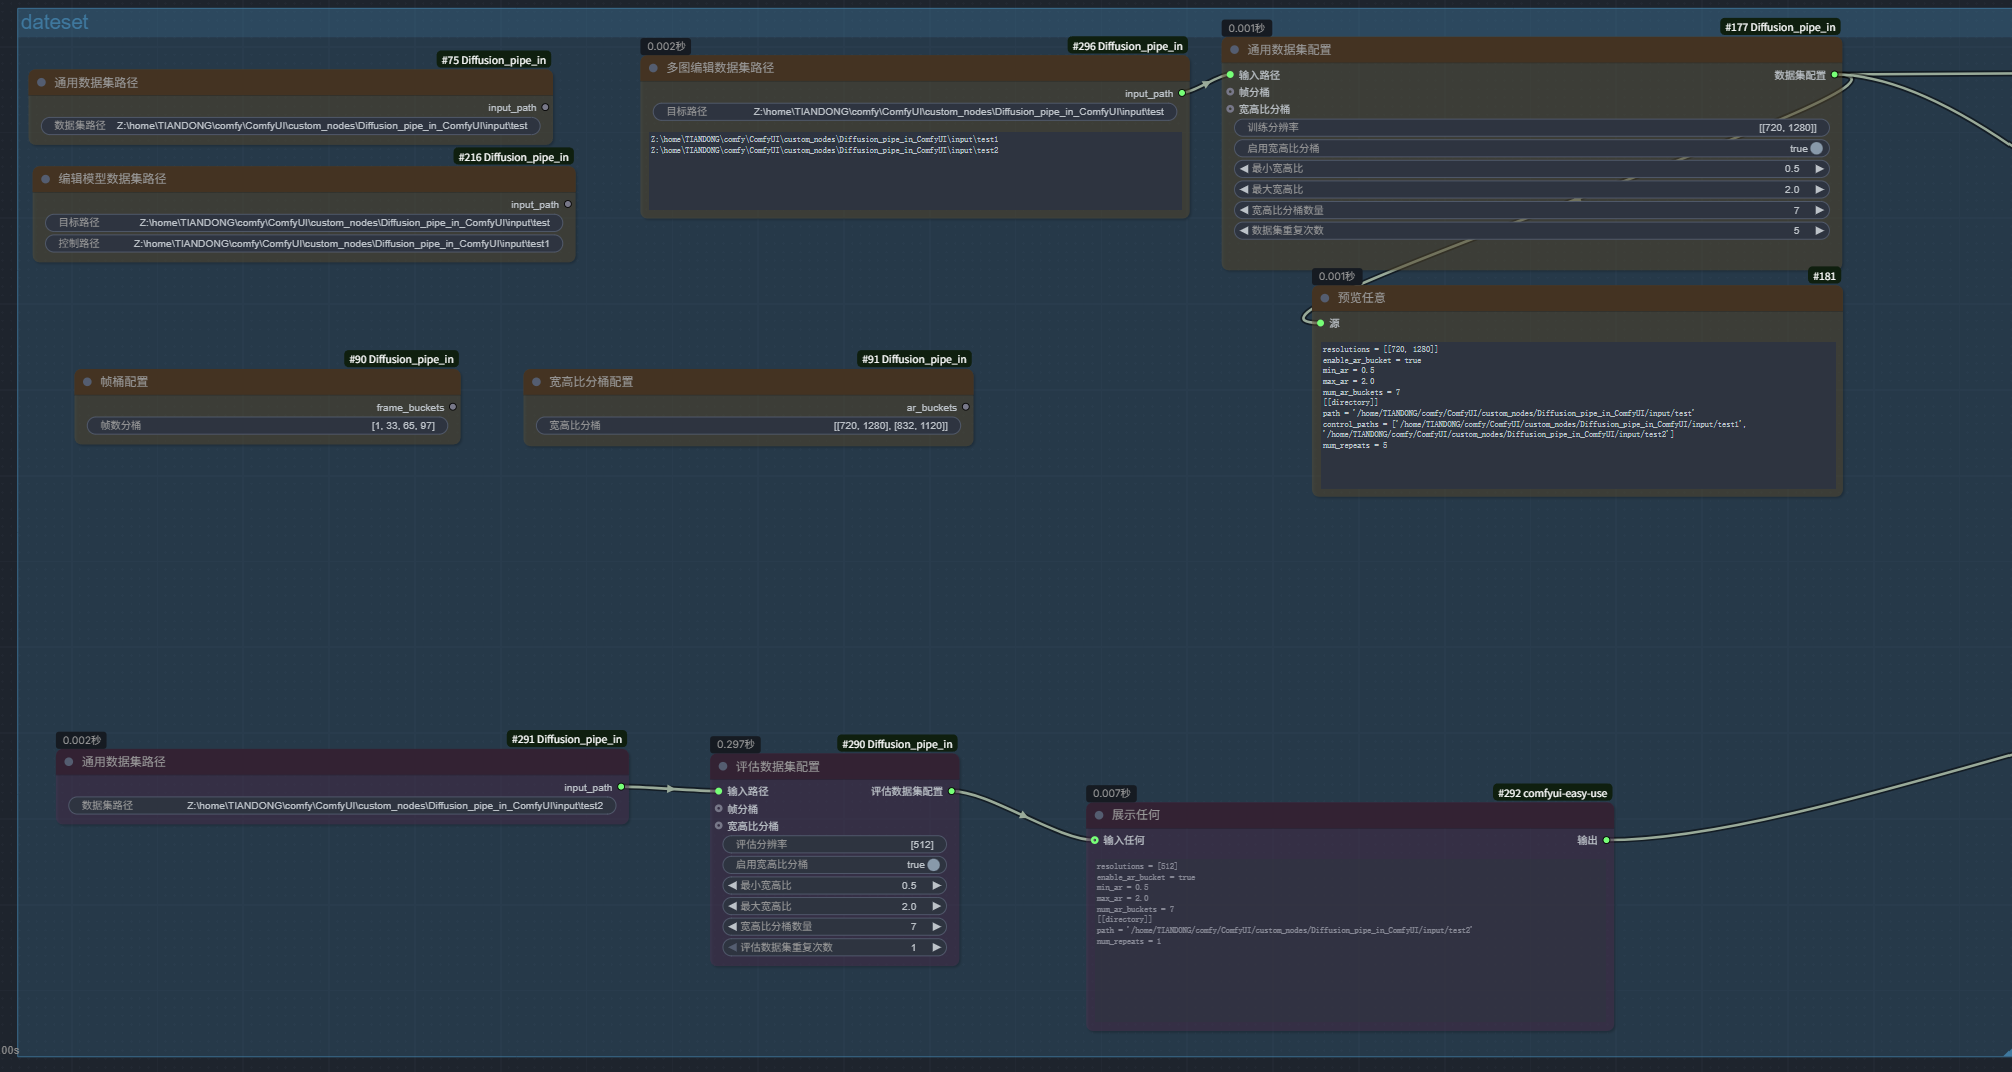
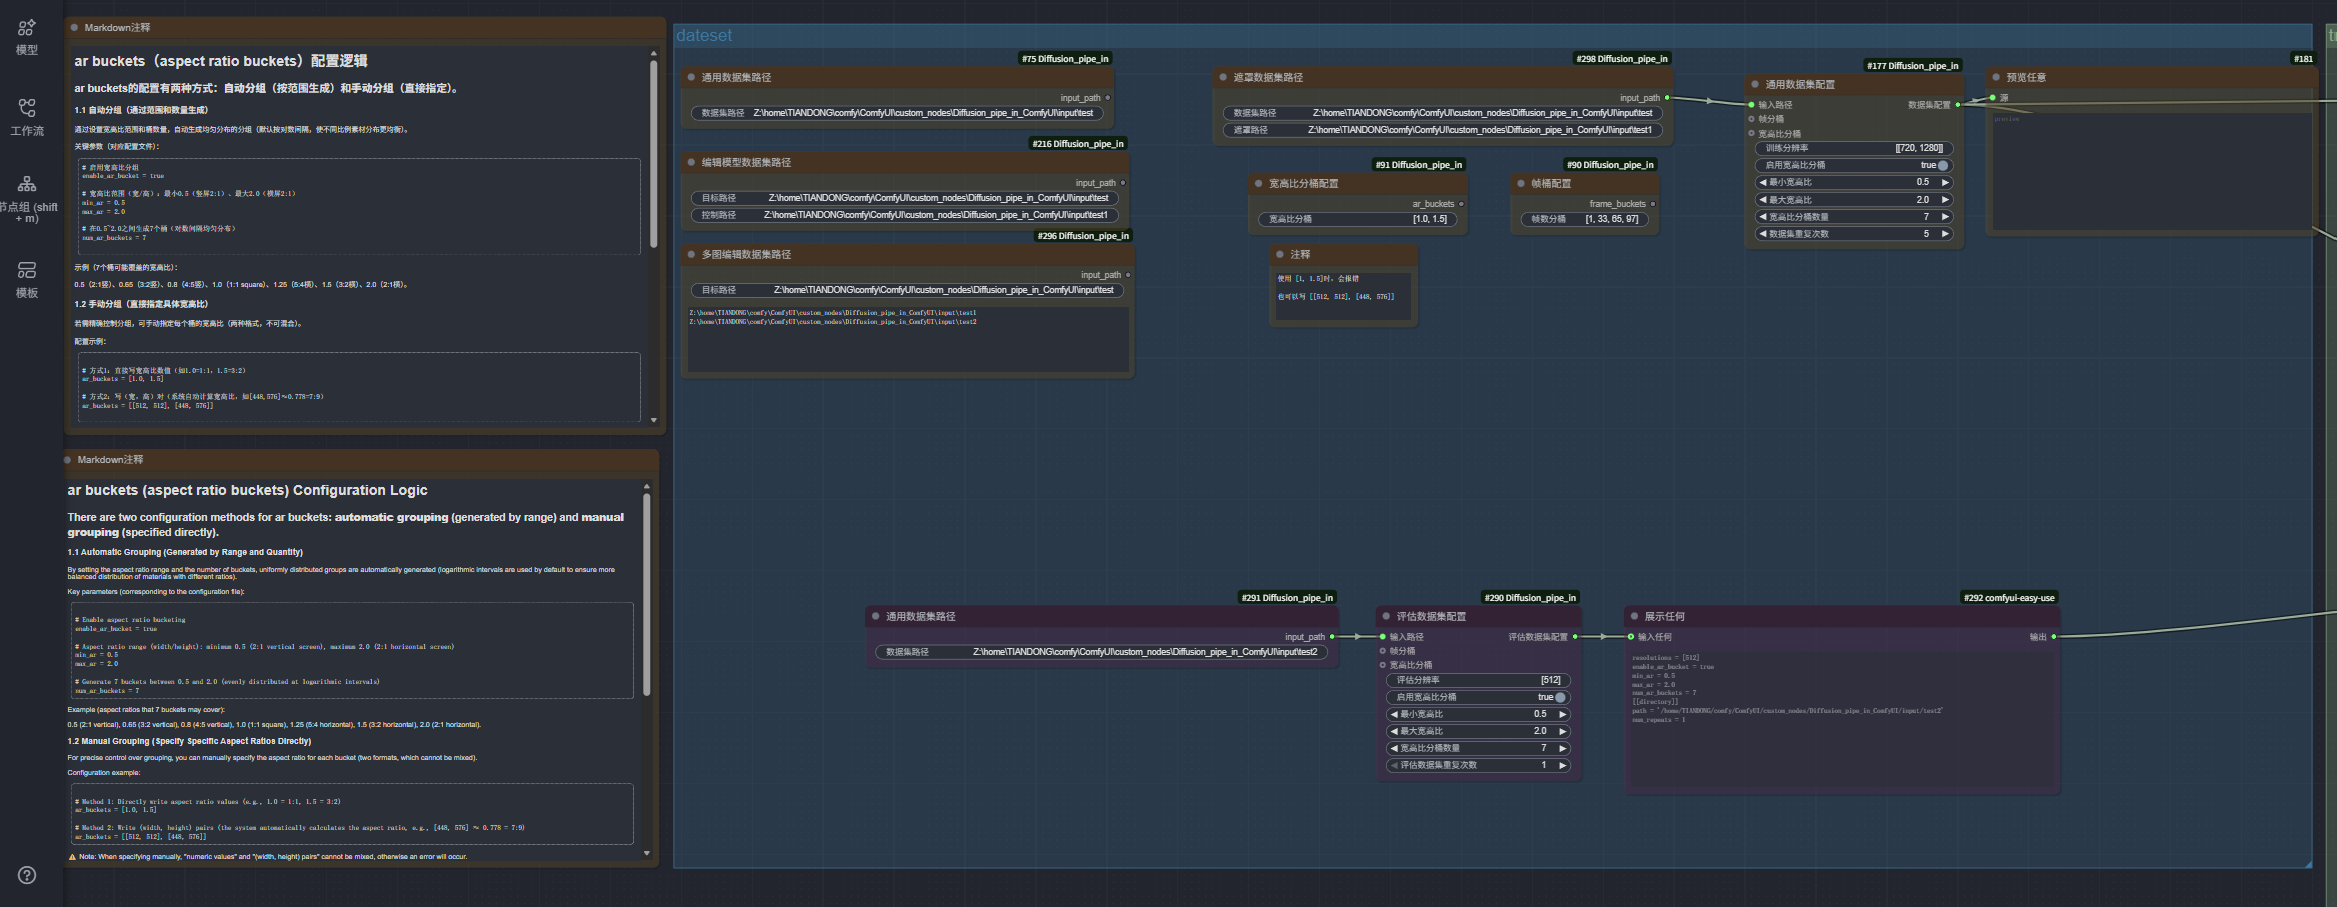
support mask trainning,Fix off-by-one error in plots when using examples as x-axis,Allow using captions.json without tar files,add reset_optimizer flag,--reset_optimizer_params flag（Reset optimizer parameters, which allows resetting the optimizer during resuming training）,Fix datasets issue,Cast to 

Changed region(s): [[0.0, 0.0, 1.0, 1.0], [0.8628, 0.7409, 0.9245, 0.7718], [0.4314, 0.7718, 0.4622, 0.8026]]

diff --git a/diffusion_nodes/start.py b/diffusion_nodes/start.py
@@ -81,7 +81,11 @@ class Train:
                 }),
                 "dump_dataset": ("STRING", {
                     "default": "",
-                    "tooltip": "将数据集导出到指定路径（调试用，导出后立即退出）"
+                    "tooltip": "将数据集导出到指定路径（调试用）"
+                }),
+                "reset_optimizer_params": ("BOOLEAN", {
+                    "default": False,
+                    "tooltip": "重置优化器状态（在从检查点恢复时使用）"
                 }),
             }
         }
@@ -91,9 +95,9 @@ class Train:
     FUNCTION = "execute"
     CATEGORY = "Diffusion-Pipe/Train"
     
-    def execute(self, dataset_config, train_config, config_path, resume_from_checkpoint="", reset_dataloader=False, regenerate_cache=False, trust_cache=False, cache_only=False, i_know_what_i_am_doing=False, dump_dataset=""):
+    def execute(self, dataset_config, train_config, config_path, resume_from_checkpoint="", reset_dataloader=False, regenerate_cache=False, trust_cache=False, cache_only=False, i_know_what_i_am_doing=False, dump_dataset="", reset_optimizer_params=False):
         """ComfyUI节点的执行入口"""
-        return self.start_training(dataset_config, train_config, config_path, resume_from_checkpoint, reset_dataloader, regenerate_cache, trust_cache, cache_only, i_know_what_i_am_doing, dump_dataset)
+        return self.start_training(dataset_config, train_config, config_path, resume_from_checkpoint, reset_dataloader, regenerate_cache, trust_cache, cache_only, i_know_what_i_am_doing, dump_dataset, reset_optimizer_params)
     
     def normalize_windows_path(self, path):
         """规范化Windows环境下的路径"""
@@ -172,7 +176,7 @@ class Train:
             print(error_msg)
             log_queue.put(error_msg)
 
-    def start_training(self, dataset_config, train_config, config_path, resume_from_checkpoint="", reset_dataloader=False, regenerate_cache=False, trust_cache=False, cache_only=False, i_know_what_i_am_doing=False, dump_dataset=""):
+    def start_training(self, dataset_config, train_config, config_path, resume_from_checkpoint="", reset_dataloader=False, regenerate_cache=False, trust_cache=False, cache_only=False, i_know_what_i_am_doing=False, dump_dataset="", reset_optimizer_params=False):
         """启动训练进程"""
         try:
             # 检查是否已有训练进程在运行
@@ -350,6 +354,10 @@ class Train:
             if reset_dataloader:
                 cmd.append("--reset_dataloader")
             
+            # 添加 reset_optimizer_params 参数
+            if reset_optimizer_params:
+                cmd.append("--reset_optimizer_params")
+            
             # 添加 cache_only 参数
             if cache_only:
                 cmd.append("--cache_only")
@@ -358,35 +366,9 @@ class Train:
             if i_know_what_i_am_doing:
                 cmd.append("--i_know_what_i_am_doing")
             
-            # 添加 dump_dataset 参数（优先使用节点参数）
+            # 添加 dump_dataset 参数
             if dump_dataset and dump_dataset.strip():
                 cmd.extend(["--dump_dataset", dump_dataset.strip()])
-            
-            # 处理高级配置中的命令行参数（向后兼容，但节点参数优先）
-            train_cmd_args = train_config.get('_train_cmd_args', {})
-            if train_cmd_args:
-                # resume_from_checkpoint 参数（仅在节点未提供时使用）
-                if 'resume_from_checkpoint' in train_cmd_args and not resume_from_checkpoint:
-                    resume_value = train_cmd_args['resume_from_checkpoint']
-                    if isinstance(resume_value, bool) and resume_value:
-                        cmd.append("--resume_from_checkpoint")
-                    elif isinstance(resume_value, str):
-                        cmd.extend(["--resume_from_checkpoint", resume_value])
-                
-                bool_args = ['reset_dataloader', 'cache_only', 'i_know_what_i_am_doing']
-                for arg in bool_args:
-                    if train_cmd_args.get(arg, False):
-                        # 避免重复添加（节点参数已处理的情况）
-                        if f"--{arg}" not in cmd:
-                            cmd.append(f"--{arg}")
-                
-                # master_port 参数（仅从 _train_cmd_args 配置）
-                if 'master_port' in train_cmd_args:
-                    cmd.extend(["--master_port", str(train_cmd_args['master_port'])])
-                
-                # dump_dataset 参数（仅在节点未提供时使用）
-                if 'dump_dataset' in train_cmd_args and not dump_dataset:
-                    cmd.extend(["--dump_dataset", str(train_cmd_args['dump_dataset'])])
             
             env = os.environ.copy()
             env['PYTHONUNBUFFERED'] = '1'

diff --git a/diffusion_nodes/GeneralDatasetConfig.py b/diffusion_nodes/GeneralDatasetConfig.py
@@ -34,7 +34,7 @@ class GeneralDatasetConfig:
                 "resolutions": ("STRING", {
                     "default": "[512]",
                     "multiline": False,
-                    "tooltip": "训练分辨率，可以是单个数值（正方形）或 [宽度, 高度] 对,例如: [1280, 720]"
+                    "tooltip": "训练分辨率，可以是单个数值（正方形）或 [[宽度, 高度]] 对,例如: [[1280, 720]]"
                 }),
                 
                 "enable_ar_bucket": ("BOOLEAN", {
@@ -93,12 +93,14 @@ class GeneralDatasetConfig:
             dataset_path = None
             control_path = None
             control_paths = None
+            mask_path_from_input = None
             is_edit_model = False
             
             if isinstance(input_path, dict):
                 dataset_path = input_path.get("path")
                 control_path = input_path.get("control_path")
                 control_paths = input_path.get("control_paths")
+                mask_path_from_input = input_path.get("mask_path")
                 is_edit_model = True
             elif isinstance(input_path, str):
                 dataset_path = input_path
@@ -128,15 +130,20 @@ class GeneralDatasetConfig:
             
             config_lines.append(f"enable_ar_bucket = {str(enable_ar_bucket).lower()}")
             
-            if enable_ar_bucket:
+            # 如果用户提供了 ar_buckets，则忽略自动宽高比配置
+            if ar_buckets_list is not None:
+                config_lines.append(f"ar_buckets = {ar_buckets_list}")
+                print("\n" + "="*80)
+                print("[数据集配置] ar_buckets 已连接，忽略自动宽高比配置参数")
+                print(f"[数据集配置] 使用手动指定的宽高比桶: {ar_buckets_list}")
+                print(f"[数据集配置] 已忽略参数: min_ar={min_ar}, max_ar={max_ar}, num_ar_buckets={num_ar_buckets}")
+                print("="*80 + "\n")
+            elif enable_ar_bucket:
                 config_lines.extend([
                     f"min_ar = {min_ar}",
                     f"max_ar = {max_ar}",
                     f"num_ar_buckets = {num_ar_buckets}",
                 ])
-            
-            if ar_buckets_list is not None:
-                config_lines.append(f"ar_buckets = {ar_buckets_list}")
             
             if frame_buckets_list is not None:
                 config_lines.append(f"frame_buckets = {frame_buckets_list}")
@@ -159,6 +166,17 @@ class GeneralDatasetConfig:
                     "[[directory]]",
                     f"path = '{normalized_dataset_path}'",
                     f"control_path = '{normalized_control_path}'",
+                    f"num_repeats = {num_repeats}",
+                ])
+            
+            elif mask_path_from_input:
+                normalized_dataset_path = normalize_wsl_path(dataset_path) if dataset_path else "/path/to/your/dataset"
+                normalized_mask_path = normalize_wsl_path(mask_path_from_input) if mask_path_from_input else "/path/to/mask/images"
+                config_lines.extend([
+                    "[[directory]]",
+                    f"path = '{normalized_dataset_path}'",
+                    f"mask_path = '{normalized_mask_path}'",
+                    f"num_repeats = {num_repeats}",
                     f"num_repeats = {num_repeats}",
                 ])
             

diff --git a/utils/dataset.py b/utils/dataset.py
@@ -212,11 +212,13 @@ class SizeBucketDataset:
             # up by image file name.
             shuffle_with_seed(iteration_order_list, 42)
 
-            def iteration_order_gen():
-                for image_spec, latents_idx, caption, caption_number in iteration_order_list:
-                    yield {'image_spec': image_spec, 'latents_idx': latents_idx, 'caption': caption, 'caption_number': caption_number}
-
-            iteration_order = datasets.Dataset.from_generator(iteration_order_gen, keep_in_memory=True)
+            iteration_order_dict = defaultdict(list)
+            for image_spec, latents_idx, caption, caption_number in iteration_order_list:
+                iteration_order_dict['image_spec'].append(image_spec)
+                iteration_order_dict['latents_idx'].append(latents_idx)
+                iteration_order_dict['caption'].append(caption)
+                iteration_order_dict['caption_number'].append(caption_number)
+            iteration_order = datasets.Dataset.from_dict(iteration_order_dict)
             iteration_order.save_to_disk(str(iteration_order_cache_dir))
             del iteration_order
 
@@ -578,7 +580,10 @@ class DirectoryDataset:
                     caption_data = json.load(f)
 
                 def add_captions(example):
-                    captions = caption_data.get(example['image_spec'][1], None)
+                    tar_file, image_file = example['image_spec']
+                    if tar_file is None:
+                        image_file = image_file.split('/')[-1]
+                    captions = caption_data.get(image_file, None)
                     if captions is None:
                         logger.warning(f'Image file {image_file} does not have an entry in captions.json')
                     else:
@@ -1188,10 +1193,11 @@ class DatasetManager:
         # I think this is because HF Datasets uses the multiprocess library (different from Python multiprocessing!) so it will always use fork.
         cpu_results = {}
         for k, v in results.items():
+            # Cast all floats to float16 because Arrow files don't support bfloat16, so it would end up float32 on disk. Cuts size in half.
             if isinstance(v, (list, tuple)):
-                cpu_results[k] = [x.to('cpu') for x in v]
+                cpu_results[k] = [x.to('cpu', torch.float16 if torch.is_floating_point(x) else x.dtype) for x in v]
             else:
-                cpu_results[k] = v.to('cpu')
+                cpu_results[k] = v.to('cpu', torch.float16 if torch.is_floating_point(v) else v.dtype)
         pipe.send(cpu_results)
 
 

diff --git a/train.py b/train.py
@@ -51,7 +51,9 @@ parser.add_argument('--local_rank', type=int, default=-1,
 parser.add_argument('--resume_from_checkpoint', nargs='?', const=True, default=None,
                     help='resume training from checkpoint. If no value is provided, resume from the most recent checkpoint. If a folder name is provided, resume from that specific folder.')
 parser.add_argument('--reset_dataloader', action='store_true', help='Start dataloader from scratch when resuming from checkpoint, i.e. only load the optimizer states.')
+parser.add_argument('--reset_optimizer', action='store_true')
 parser.add_argument('--regenerate_cache', action='store_true', help='Force regenerate cache.')
+parser.add_argument('--reset_optimizer_params', action='store_true')
 parser.add_argument('--cache_only', action='store_true', help='Cache model inputs then exit.')
 parser.add_argument('--trust_cache', action='store_true', help='Load from metadata cache files if they exist, without checking if any fingerprints have changed. Can make loading much faster for large datasets.')
 parser.add_argument('--i_know_what_i_am_doing', action='store_true', help="Skip certain checks and overrides. You may end up using settings that won't work.")
@@ -760,11 +762,16 @@ if __name__ == '__main__':
     # make sure to do this before calling model_engine.set_dataloader(), as that method creates an iterator
     # which starts creating dataloader internal state
     if resume_from_checkpoint:
+        param_groups = optimizer.param_groups.copy()        
         load_path, client_state = model_engine.load_checkpoint(
             run_dir,
             load_module_strict=False,
-            load_lr_scheduler_states='force_constant_lr' not in config,
+            load_lr_scheduler_states='force_constant_lr' not in config and not args.reset_optimizer and not args.reset_optimizer_params,
+            load_optimizer_states=not args.reset_optimizer,
         )
+        if args.reset_optimizer_params:
+            optimizer.param_groups = param_groups
+
         dist.barrier()  # just so the print below doesn't get swamped
         assert load_path is not None
         if args.reset_dataloader:
@@ -773,7 +780,7 @@ if __name__ == '__main__':
             train_dataloader.load_state_dict(client_state['custom_loader'])
         step = client_state['step'] + 1
         if 'examples' in client_state:
-            examples = client_state['examples']
+            examples = client_state['examples'] + global_batch_size
         else:
             examples = step * global_batch_size
         del client_state

diff --git a/diffusion_nodes/dataset_tools.py b/diffusion_nodes/dataset_tools.py
@@ -56,7 +56,7 @@ class ArBucketsNode:
                 "ar_buckets": ("STRING", {
                     "default": "[[512, 512], [448, 576]]",
                     "multiline": False,
-                    "tooltip": "宽高比分桶配置，可选"
+                    "tooltip": "宽高对分桶配置，可选，不能与宽高比分桶同时使用"
                 }),
             }
         }
@@ -163,6 +163,49 @@ class MultiImageEditDatasetPathNode:
         }
         
         return (dataset_config,)
+
+class MaskDatasetPathNode:
+    @classmethod
+    def INPUT_TYPES(cls):
+        return {
+            "required": {
+                "dataset_path": ("STRING", {
+                    "default": "",
+                    "multiline": False,
+                    "tooltip": "训练图像路径 - 包含训练图片的文件夹"
+                }),
+                "mask_path": ("STRING", {
+                    "default": "",
+                    "multiline": False,
+                    "tooltip": "遮罩图像路径 - 白色训练，黑色遮蔽，灰色部分训练。遮罩文件名需与训练图片匹配"
+                }),
+            }
+        }
+    
+    RETURN_TYPES = ("input_path",)
+    RETURN_NAMES = ("input_path",)
+    FUNCTION = "get_mask_dataset_paths"
+    CATEGORY = "Diffusion-Pipe/dataset"
+    
+    def get_mask_dataset_paths(self, dataset_path, mask_path):
+        normalize_windows_path = normalize_windows_path(dataset_path)
+        normalized_mask_path = normalize_windows_path(mask_path)
+        
+        if not os.path.exists(normalize_windows_path):
+            print(f"警告: 数据集路径不存在: {normalize_windows_path}")
+        
+        if not os.path.exists(normalized_mask_path):
+            print(f"警告: 遮罩路径不存在: {normalized_mask_path}")
+        
+        dataset_config = {
+            "path": dataset_path,
+            "mask_path": mask_path
+        }
+        
+        return (dataset_config,)
+
+
+
 
 class FrameBucketsNode:
     @classmethod

diff --git a/nodes.py b/nodes.py
@@ -5,7 +5,7 @@ try:
     from .diffusion_nodes.EvalDatasetConfig import EvalDatasetConfig
     from .diffusion_nodes.dataset_tools import (
         GeneralDatasetPathNode, EditModelDatasetPathNode, 
-        MultiImageEditDatasetPathNode, FrameBucketsNode
+        MultiImageEditDatasetPathNode, FrameBucketsNode, MaskDatasetPathNode
     )
     
     from .diffusion_nodes.general_config import GeneralConfig
@@ -35,7 +35,7 @@ except ImportError:
     from diffusion_nodes.EvalDatasetConfig import EvalDatasetConfig
     from diffusion_nodes.dataset_tools import (
         GeneralDatasetPathNode, EditModelDatasetPathNode, 
-        MultiImageEditDatasetPathNode, FrameBucketsNode
+        MultiImageEditDatasetPathNode, FrameBucketsNode, MaskDatasetPathNode
     )
     from diffusion_nodes.general_config import GeneralConfig
     from diffusion_nodes.advanced_train_config import AdvancedTrainConfig
@@ -62,6 +62,7 @@ NODE_CLASS_MAPPINGS = {
     "GeneralDatasetPathNode": GeneralDatasetPathNode,
     "EditModelDatasetPathNode": EditModelDatasetPathNode,
     "MultiImageEditDatasetPathNode": MultiImageEditDatasetPathNode,
+    "MaskDatasetPathNode": MaskDatasetPathNode,
     "FrameBucketsNode": FrameBucketsNode,
     "ArBucketsNode": ArBucketsNode,
     
@@ -108,6 +109,7 @@ NODE_DISPLAY_NAME_MAPPINGS = {
     "GeneralDatasetPathNode": "通用数据集路径",
     "EditModelDatasetPathNode": "编辑模型数据集路径",
     "MultiImageEditDatasetPathNode": "多图编辑数据集路径",
+    "MaskDatasetPathNode": "遮罩数据集路径",
     "FrameBucketsNode": "帧数分桶配置",
     "ArBucketsNode": "宽高比分桶配置",
     

diff --git a/README.md b/README.md
@@ -31,10 +31,11 @@ Diffusion-Pipe In ComfyUI Custom Node is a powerful extension plugin that provid
 
 * 20251026:support eval 
 
-* 20251030: Supports training Aura models
+* 20251030:Supports training Aura models
 
 * 20251103:support MultiImage Edit (qwen2509)
 
+* 20251105:support mask trainning,Fix off-by-one error in plots when using examples as x-axis,Allow using captions.json without tar files,add reset_optimizer flag,--reset_optimizer_params flag（Reset optimizer parameters, which allows resetting the optimizer during resuming training）,Fix datasets issue,Cast to float16 in dataset caching to cut size on disk in half
 
 # Quick Start
 ## You can use my pre configured portable environment pack

diff --git a/READMEChinese.md b/READMEChinese.md
@@ -30,7 +30,9 @@ Diffusion-Pipe In ComfyUI 自定义节点是一个强大的扩展插件，为 Co
 
 * 20251030:支持aura模型训练
 
-* 20251103：支持多图像编辑（qwen2509）
+* 20251103:支持多图像编辑（qwen2509）
+
+* 20251105:支持遮罩训练，修复了使用示例作为x轴时绘图中的一个错误，允许在没有tar文件的情况下使用captions.json，添加reset_optimizer标志，--reset_optimiser_params标志（重置优化器参数，可以在继续训练时重置优化器），修复数据集问题，在数据集缓存中将Cast转换为float16以将磁盘大小减半
 
 # 快速开始
 ## 你可以使用我的配置好的便携式环境包：
